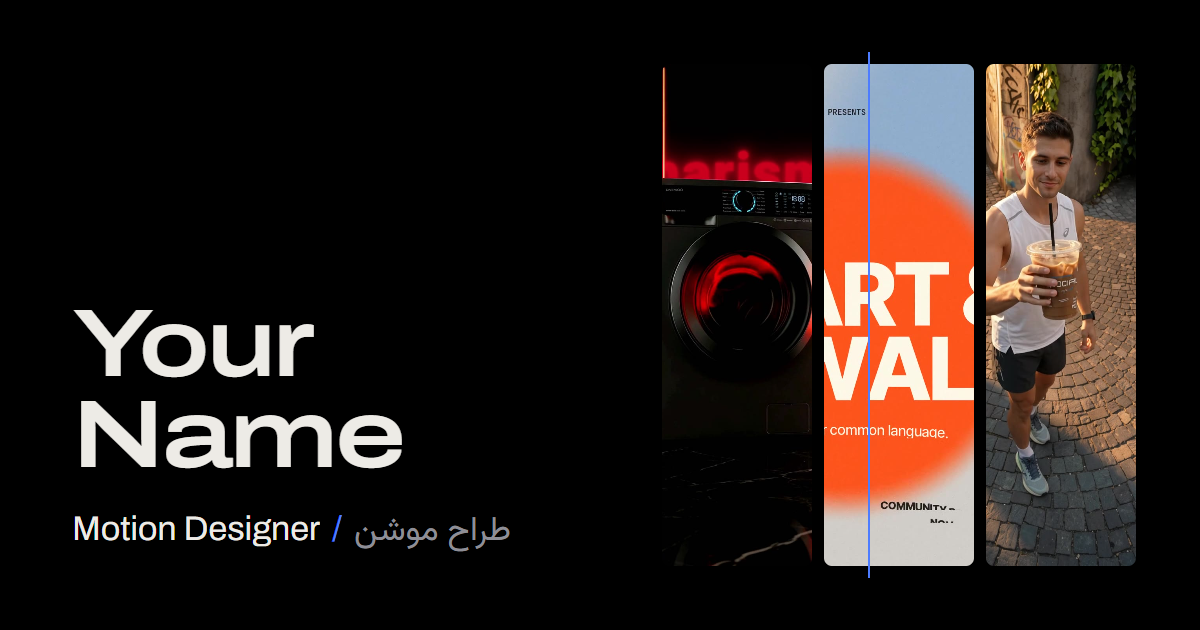
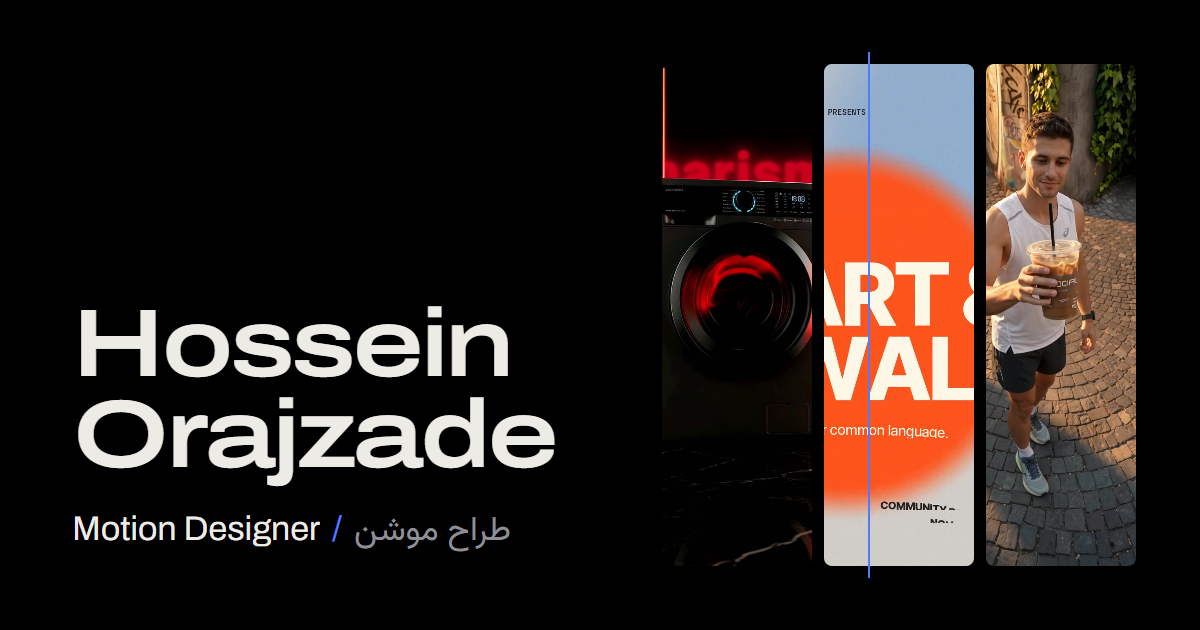
Use real name: Hossein Orajzade / حسین اورجزاده

Changed region(s): [[0.0617, 0.6333, 0.4625, 0.7841], [0.0617, 0.4825, 0.4317, 0.6032]]

diff --git a/index.html b/index.html
@@ -4,15 +4,15 @@
     <meta charset="UTF-8" />
     <meta name="viewport" content="width=device-width, initial-scale=1.0, viewport-fit=cover" />
     <meta name="theme-color" content="#000000" />
-    <title>Your Name — Motion Designer | طراح موشن</title>
-    <meta name="description" content="Portfolio of Your Name, motion designer crafting 2D, 3D and logo animation for brands. نمونهکارهای طراح موشن." />
+    <title>Hossein Orajzade — Motion Designer | حسین اورجزاده، طراح موشن</title>
+    <meta name="description" content="Hossein Orajzade, motion designer: 3D product films, kinetic typography and social content for brands. حسین اورجزاده، طراح موشن." />
     <link rel="icon" type="image/svg+xml" href="favicon.svg" />
 
     <!-- Open Graph / Twitter -->
     <meta property="og:type" content="website" />
-    <meta property="og:site_name" content="Your Name — Motion Designer" />
-    <meta property="og:title" content="Your Name — Motion Designer | طراح موشن" />
-    <meta property="og:description" content="Cinematic motion design for brands — 2D, 3D, logo animation and explainers." />
+    <meta property="og:site_name" content="Hossein Orajzade — Motion Designer" />
+    <meta property="og:title" content="Hossein Orajzade — Motion Designer | طراح موشن" />
+    <meta property="og:description" content="3D product films, kinetic typography and social content for brands like Daewoo and Art Radar." />
     <meta property="og:url" content="%VITE_SITE_URL%" />
     <meta property="og:image" content="%VITE_SITE_URL%og-image.png" />
     <meta property="og:image:width" content="1200" />
@@ -20,7 +20,7 @@
     <meta property="og:locale" content="en_US" />
     <meta property="og:locale:alternate" content="fa_IR" />
     <meta name="twitter:card" content="summary_large_image" />
-    <meta name="twitter:title" content="Your Name — Motion Designer" />
+    <meta name="twitter:title" content="Hossein Orajzade — Motion Designer" />
     <meta name="twitter:image" content="%VITE_SITE_URL%og-image.png" />
 
     <script>
